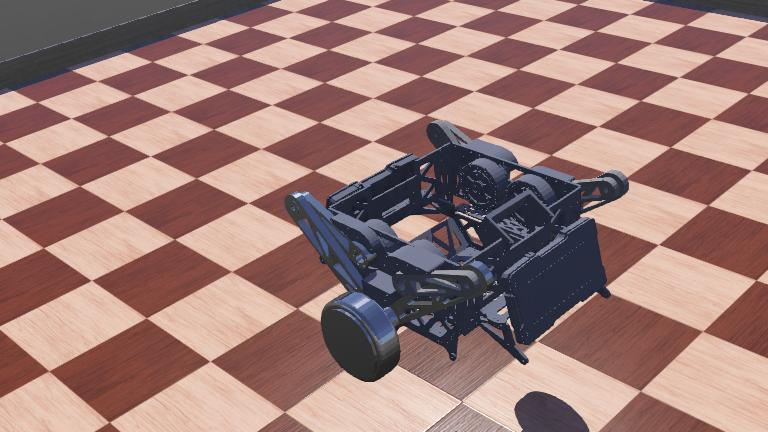
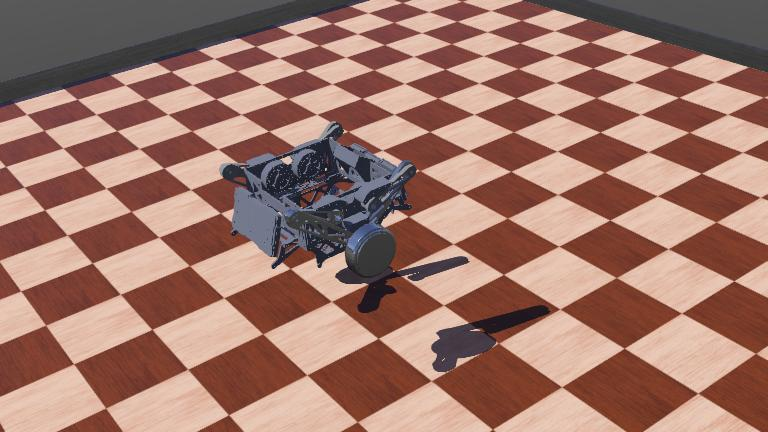
fix motor bug

diff --git a/controllers/balance_controller/balance_controller.cpp b/controllers/balance_controller/balance_controller.cpp
@@ -91,16 +91,23 @@ int main(int argc, char **argv)
 
     while (robot->step(TIME_STEP) != -1)
     {
-        float RF_pos = LF->getPosition();
-        float RB_pos = LB->getPosition();
-        LF->setTorque(-0.5f);
-        LB->setTorque(-0.5f);
-        RF->setTorque(0.5f);
-        RB->setTorque(0.5f);
+        float LF_pos = LF->getPosition();
+        float LB_pos = LB->getPosition();
+        float RF_pos = RF->getPosition();
+        float RB_pos = RB->getPosition();
+
+        LF->setPosition(-0.38f);
+        LB->setPosition(-0.38f);
+        RF->setPosition(0.38f);
+        RB->setPosition(0.38f);
+        // LF->setTorque(-0.5f);
+        // LB->setTorque(-0.5f);
+        // RF->setTorque(0.5f);
+        // RB->setTorque(0.5f);
         // R->setTorque(-1.0f);
         // float L_pos = L->getPosition();
 
-        printf("%f %f\n", RF_pos, RB_pos);
+        printf("%f %f %f %f\n", RF_pos, RB_pos, LF_pos, LB_pos);
     }
     delete robot;
 
